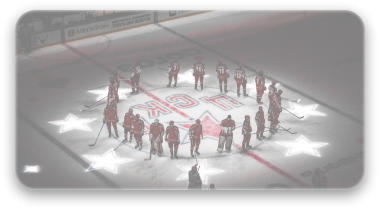
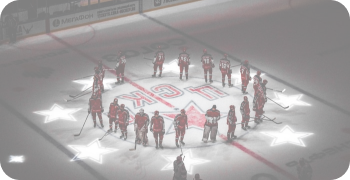
fix sport image and add links to categories and fix hover

diff --git a/src/pages/HomePage/page-components/Recomended/Recommended.tsx b/src/pages/HomePage/page-components/Recomended/Recommended.tsx
@@ -28,23 +28,23 @@ const Recommended: React.FC = () => {
       </TitleWrap>
       <MobileInner>
         <CategoriesWrap>
-          <CategoryWrap to="/categories" gridArea="1 / 1 / 4 / 3">
+          <CategoryWrap to="/categories-new" gridArea="1 / 1 / 4 / 3">
             <Name>New</Name>
             <Image src={MetaversesImg} alt="category-img" />
           </CategoryWrap>
-          <CategoryWrap to="/categories" gridArea="1 / 3 / 3 / 5">
+          <CategoryWrap to="/categories-sport" gridArea="1 / 3 / 3 / 5">
             <Name>Sport</Name>
             <Image src={SportImg} alt="category-img" />
           </CategoryWrap>
-          <CategoryWrap to="/categories" gridArea="3 / 3 / 4 / 5">
+          <CategoryWrap to="/categories-celebrity" gridArea="3 / 3 / 4 / 5">
             <Name>Celebrity</Name>
             <Image src={CelebrityImg} alt="category-img" />
           </CategoryWrap>
-          <CategoryWrap to="/categories" gridArea="1 / 5 / 2 / 7">
+          <CategoryWrap to="/categories-rwa" gridArea="1 / 5 / 2 / 7">
             <Name>rwaNFT</Name>
             <Image src={RwaImg} alt="category-img" />
           </CategoryWrap>
-          <CategoryWrap to="/categories" gridArea="2 / 5 / 4 / 7">
+          <CategoryWrap to="/categories-art" gridArea="2 / 5 / 4 / 7">
             <Name>Artwork</Name>
             <Image src={ArtworkImg} alt="category-img" />
           </CategoryWrap>

diff --git a/src/pages/HomePage/page-components/Recomended/Recommended.styles.ts b/src/pages/HomePage/page-components/Recomended/Recommended.styles.ts
@@ -155,9 +155,11 @@ export const CategoryWrap = styled(Link)<ICategory>`
   box-shadow: 0 5px 15px rgba(35, 36, 40, 0.5), inset 0px 0px 4px #ffffff;
   transition: all ease-in-out 0.25s;
   &:hover {
-    background: rgba(255, 255, 255, 0.4);
+    background: rgba(255, 255, 255, 0.5);
     ${Name} {
       color: #873dc1;
+      text-shadow: 1px 1px 3px #ffffff;
+      font-weight: 500;
     }
   }
   @media (max-width: 992px) {
